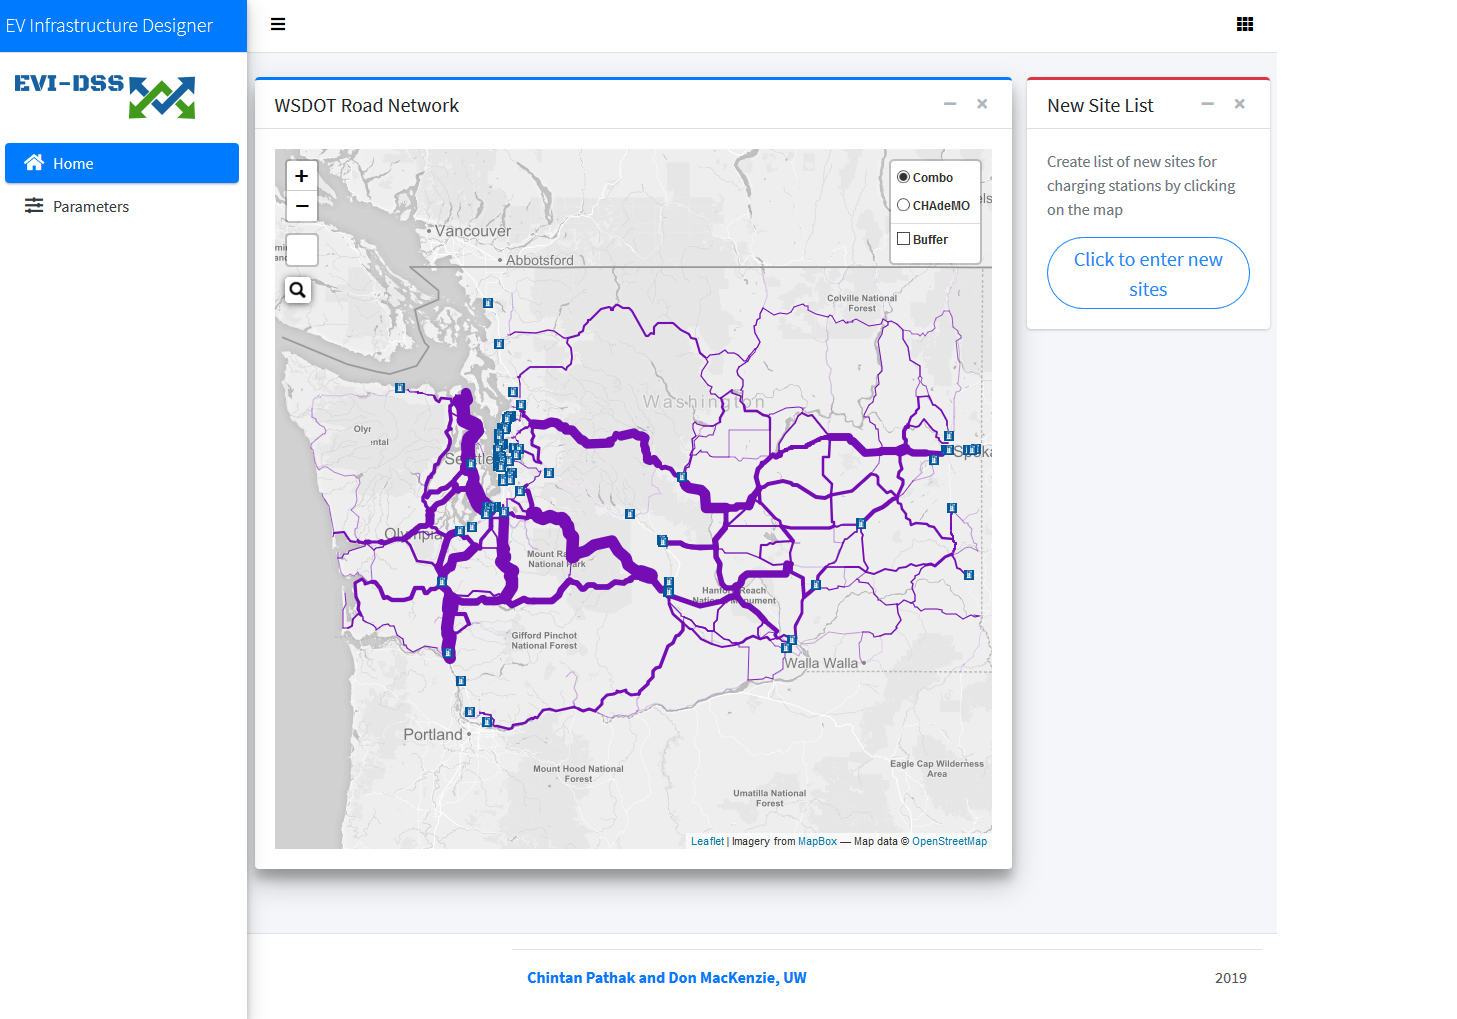
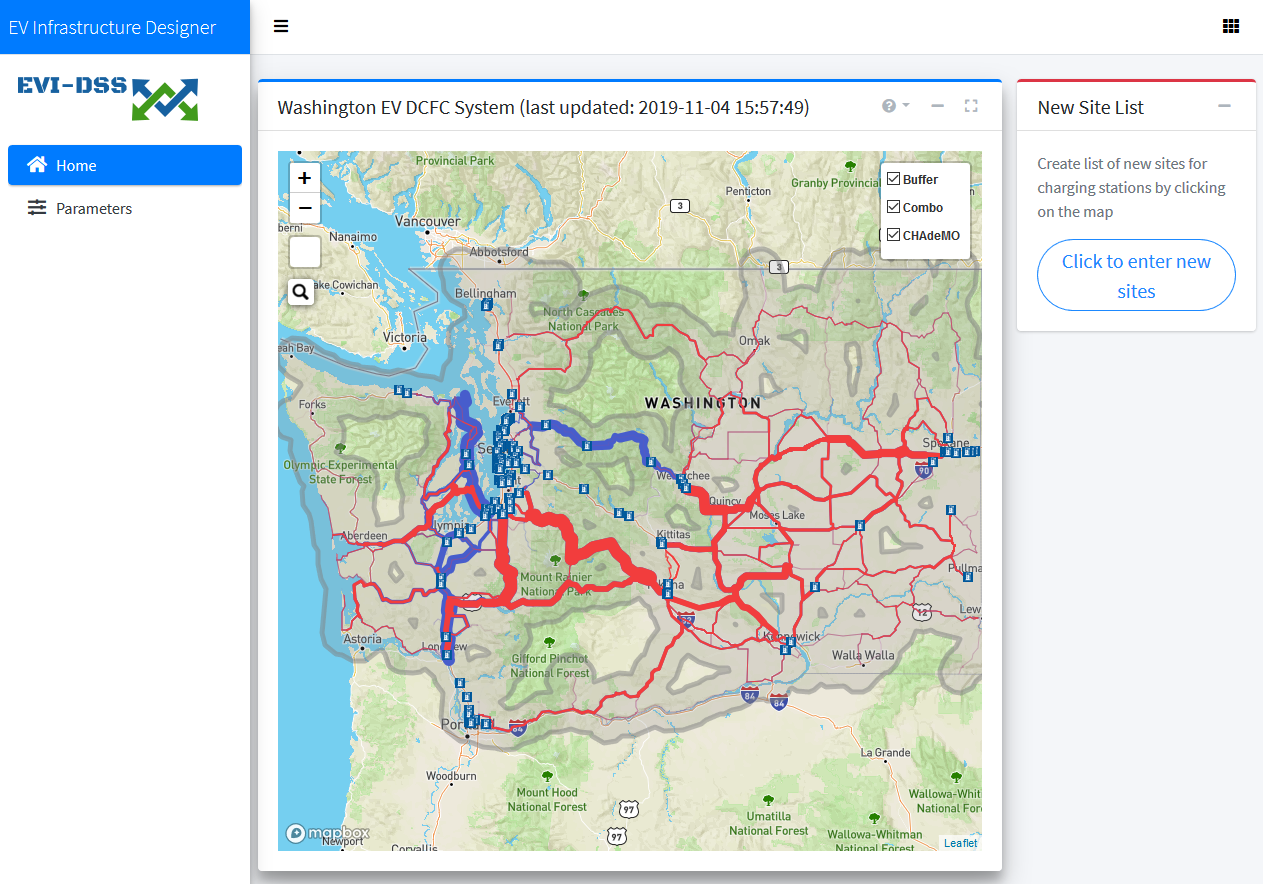
View updates etc.

diff --git a/docs/source/evi_des.rst b/docs/source/evi_des.rst
@@ -16,9 +16,9 @@ UI Details
 ==========
 The key elements of the EV Infrastructure Designer are as under:
 
-WSDOT Road Network 
-------------------
-The WSDOT Road Network card shows the WSDOT road network overlayed with the infeasibility metric for CHAdeMO and COMBO charging - selectable from the radio buttons on the upper right corner as in :numref:`wsdot_road_network`. Besides the infeasibility overlay, the radio buttons also show the relevant type of charging stations on the road network. These locations are consistent with the database table :code:`built_evse`. 
+Washington EV DCFC System 
+-------------------------
+The "Washington EV DCFC System" card shows the WSDOT road network overlayed with the infeasibility metric for CHAdeMO and COMBO charging alongwith the as-built EV DCFC infrastructure - selectable from the radio buttons on the upper right corner as in :numref:`wsdot_road_network` . Besides the infeasibility overlay, the radio buttons also show the relevant type of charging stations on the road network. These locations are consistent with the database table :code:`built_evse`. 
 
 .. _wsdot_road_network: 
 .. figure:: _static/wsdot_road_network.PNG
@@ -27,7 +27,7 @@ The WSDOT Road Network card shows the WSDOT road network overlayed with the infe
     :alt: WSDOT Road Network
     :figclass: align-center
     
-    WSDOT Road Network
+    Washington EV DCFC System
 
 The infeasibility metric is an indication of sparsity of EV infrastrastructure on a path. A count is calculated for the total vehicle trips passing over a road segment belonging to a shortest path between an OD pair if the spacing between charging stations on the segment is greater than 70 miles (critical limit specified by WSDOT). The line weight of the overlay is directly proportional to the trip count passing over a segment. So, a thick overlay can mean that a high count of vehicles are passing over the segment. The low line weight indicates light traffic on the segment. The former indicates that the road segment is used by several OD pairs in the state, whereas the later indicates the vice-versa. No line weight on the roads mean that the charging station spacing on the segment is less than 70 miles. There are separate overlays for CHAdeMO and COMBO charging stations as not all charging stations feature both types of plugs. 
 
@@ -57,12 +57,12 @@ For all the selected locations, configuration can be done as shown in :numref:`s
     
     Station Configuration
 
-The station configuration modal allows the setting of number of plugs for CHAdeMO, COMBO and Level-2 as well the corresponding power per plug. Further configuration options like charging price, etc. can be easily added to allow custom configuration for all new proposed locations. 
+The station configuration modal allows the setting of number of plugs for DCFC and Level-2 as well as the corresponding power per plug and pricing structure. Total price can include charging price and parking price. For both parking and charging, there could be a fixed component (per session )and variable (per minute) component. 
 
-Once satisfactory counts of charging stations with appropriate configuration have been selected, the selection can be submitted for analysis by clicking the "Submit for analysis" button. This will insert a record in the database table :code:`analysis_record`, which will trigger an analysis request to the simulation manager. A successful analysis submission will also insert rows in the table :code:`new_evses` for the respective :code:`analysis_id`. As many rows as the number of charging sites selected will be entered with the columns like plug count and power as per the individual configuration.
+Once satisfactory counts of charging stations with appropriate configuration have been selected, the selection can be submitted for analysis by clicking the "Submit for analysis" button. This will insert a record in the database table :code:`analysis_record`, which will trigger an analysis request to the simulation manager. A successful analysis submission will also insert rows in the table :code:`new_evses` for the respective :code:`analysis_id`. As many rows as the number of charging sites selected will be entered with the columns like plug count, power, price etc. as per the individual configuration.
 
 .. note::
-    The user can bring down the count of plugs all the way to zero. When both CHAdeMO and COMBO plug count is set to zero for all new charging stations, the analysis is equivalent to the as-built scenario. This, therefore, is the way to get to the base-case analysis and the new charging station deployment scenarios can be compared against the base-case. 
+    The user can bring down the count of plugs all the way to zero. When DCFC plug count is set to zero for all new charging stations, the analysis is equivalent to the as-built scenario. This, therefore, is the way to get to the base-case analysis and the new charging station deployment scenarios can be compared against the base-case. 
 
 The New Site List card then displays a successful analysis submission message with the submission date time as shown in :numref:`submitted_analysis`. Since the analysis process involving re-calculation of destination chargers, charging distances, EV trips and subsequent agent-based simulation is a computationally-intensive long process, taking several hours at the time of this writing, the user is informed about the successful completion of analysis via an email at the registered email address. The results can then be viewed for the particular simulation date time of interest. 
 

diff --git a/docs/source/res_view.rst b/docs/source/res_view.rst
@@ -18,7 +18,7 @@ After selecting the simulation datetime, the user has option to view the results
 
 Summary Stats
 -------------
-These stats presented on this tab represent the key statistics of interest for the simulated (consisting of as-built + proposed) EV infrastructure. "EVs in Simulation" is the count of EVs that were simulated for travel on a typical day. "EVs finishing trip" represent the number of EVs that reached their destination - i.e. finished their trip. "EVs stranded" represents the number of EVs that were stranded during the trip, i.e. they were out of charge due to lack of charging infrastructure along their charging route. "eVMT" refers to the electric vehicle miles travelled - this statistic does not include the added trip distance due to charging de-tours, but only counts the shortest path lenghts for EVs that finished their trips. "Number of charging sessions" represents the number of charging sessions as predicted by the model. "Number of EVs passed" represents the number of EVs that passed a charging station because it was occupied at the time they needed to charge. 
+These stats presented on this tab represent the key statistics of interest for the simulated (consisting of as-built + proposed) EV infrastructure. "EVs in Simulation" is the count of EVs that were simulated for travel on a typical day. "EVs finishing trip" represent the number of EVs that reached their destination - i.e. finished their trip. "EVs stranded" represents the number of EVs that were stranded during the trip, i.e. they were out of charge due to lack of charging infrastructure along their charging route. "eVMT" refers to the electric vehicle miles travelled - this statistic does not include the added trip distance due to charging de-tours, but only counts the shortest path lenghts for EVs that finished their trips. "Number of charging sessions" represents the number of charging sessions as predicted by the model. "Number of EVs waiting" represents the number of EVs that waited at a charging station because it was occupied at the time they needed to charge. 
 
 Finished
 --------
@@ -58,9 +58,9 @@ new proposed charging station for the time window selected. The table shows the 
     
     Results Viewer - EVSE Utilization Modal
 
-EVSE Served/Passed
+EVSE Served/Waited
 ------------------
-The `EVSE Served/Passed` tab shows the an overlay over the charging stations indicating the number of EVs served/passed. This allows for quick location of charging stations where the utilization is high and/or the charging stations where number of EVs passed is high. These charging stations can then be seen in detail using the `EVSE Utilization` tab to determine the time, and type of deficiency. 
+The `EVSE Served/Waited` tab shows the an overlay over the charging stations indicating the number of EVs served/waited. This allows for quick location of charging stations where the utilization is high and/or the charging stations where number of EVs waited is high. These charging stations can then be seen in detail using the `EVSE Utilization` tab to determine the time, and type of deficiency. 
 
 Stranded
 --------
